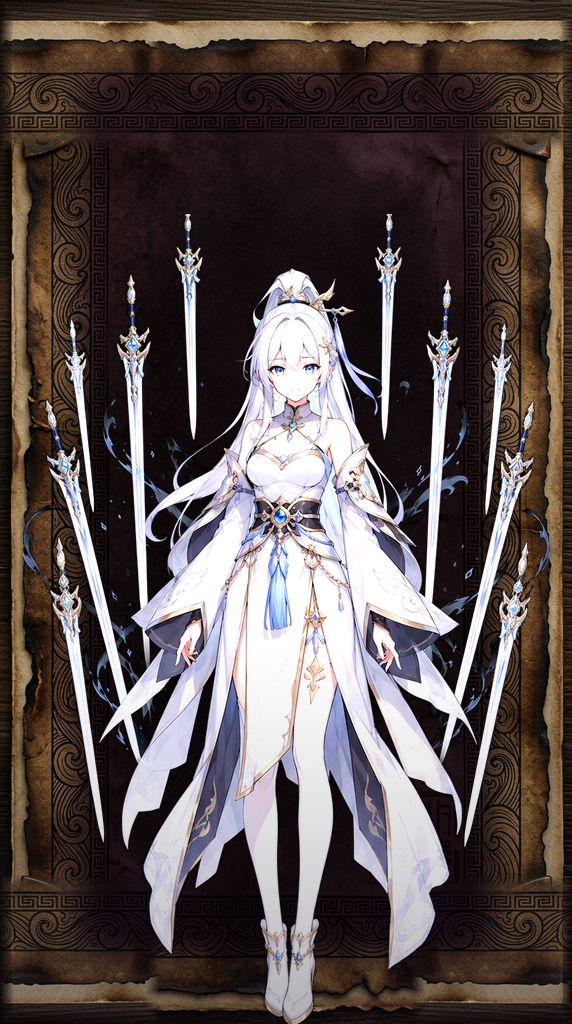
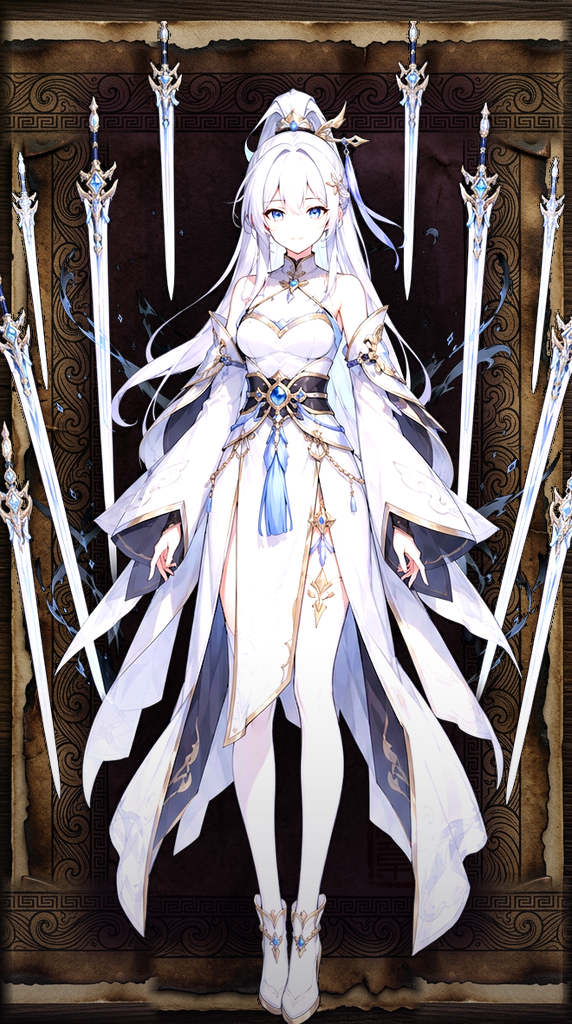
feat: 横向造型角色卡放大——阿姨压/愤怒的小雀/雪皇/万剑归宗/摘星星星人高度顶满卡高(100%),宽度溢出居中裁边

diff --git a/scripts/_proc/compose_hero_cards.py b/scripts/_proc/compose_hero_cards.py
@@ -85,8 +85,8 @@ def night_inner(card, ix0, iy0, ix1, iy1):
     arr[..., :3] = np.clip(arr[..., :3] * mult, 0, 255)
     return Image.fromarray(arr.astype('uint8'), 'RGBA')
 
-def hero_layer(hero_path, scale_rel=0.98):
-    """完整立绘: 提亮 -> 实体bbox裁剪 -> 等比缩放(不截断)"""
+def hero_layer(hero_path, scale_rel=1.0):
+    """完整立绘: 提亮 -> 实体bbox裁剪 -> 高度顶满卡高(scale_rel), 宽度溢出居中裁边"""
     hero = Image.open(hero_path).convert('RGBA')
     hero = ImageEnhance.Brightness(hero).enhance(1.14)
     hero = ImageEnhance.Contrast(hero).enhance(1.08)
@@ -100,9 +100,6 @@ def hero_layer(hero_path, scale_rel=0.98):
     hw, hh = hero.size
     s = (H * scale_rel) / hh
     nw, nh = int(hw * s), int(hh * s)
-    if nw > W * 0.92:
-        s = (W * 0.92) / hw
-        nw, nh = int(hw * s), int(hh * s)
     return hero.resize((nw, nh), Image.LANCZOS), (W - nw) // 2, H - nh
 
 def fog_vignette(card, fog_a=85):
